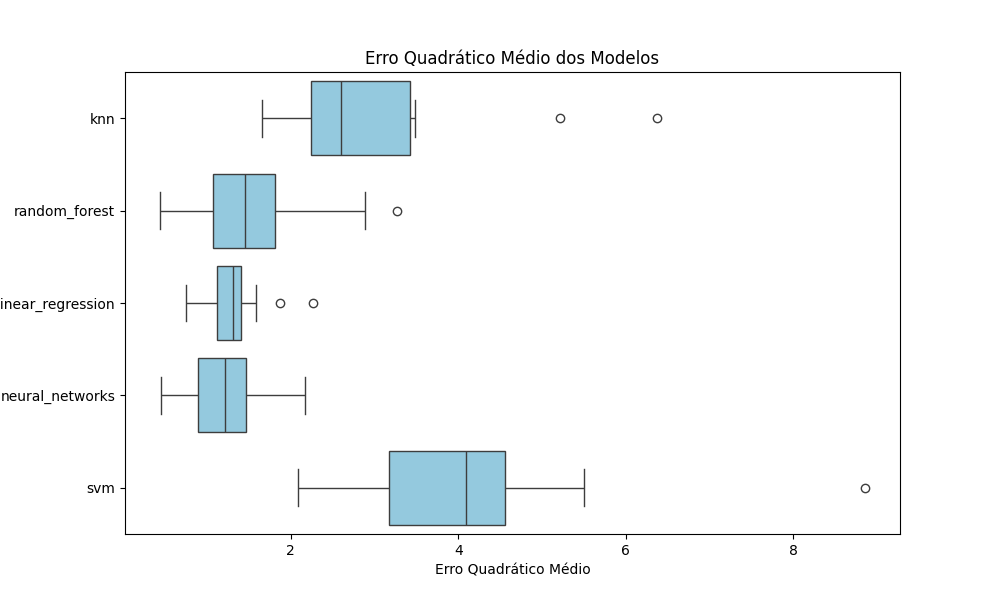
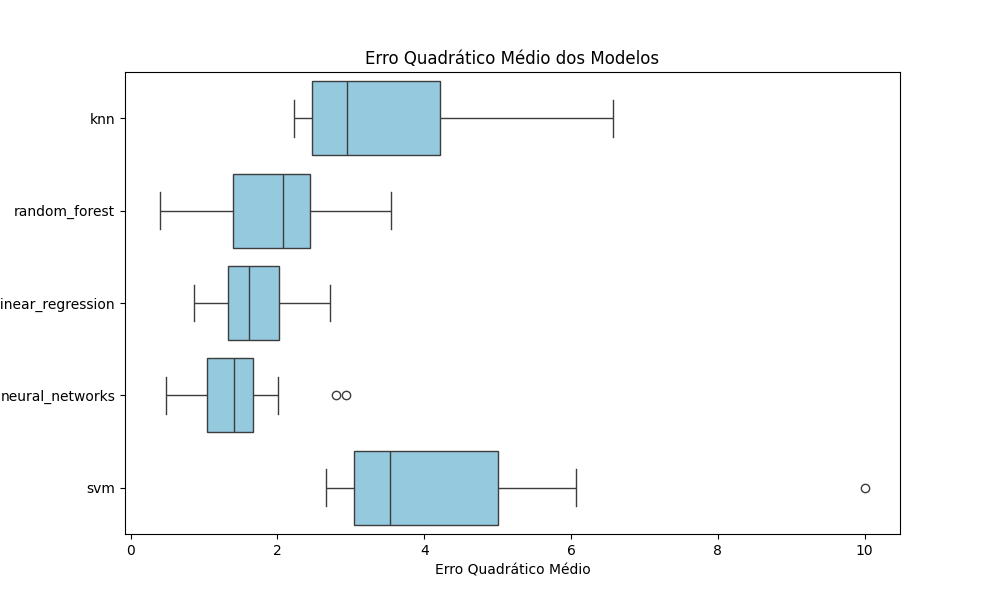
feat: execute hyperparameters optimization

diff --git a/src/model_evaluation.py b/src/model_evaluation.py
@@ -51,7 +51,7 @@ def evaluate_model(method, X_train, X_val, y_train, y_val, random_state):
         case "svm":
             model = SVR()
     # Pipeline applies the preprocessed dataset to the model for fitting
-    pipe = Pipeline([
+    pipe = Pipeline(steps=[
         ("preprocessor", preprocessor),
         ("regressor", model)
     ])
@@ -64,7 +64,7 @@ def evaluate_model(method, X_train, X_val, y_train, y_val, random_state):
 
     return mean_squared_error(y_val, model_prediction)
 
-def optimize_hyperparameters(method, X_train, X_val, y_train, y_val, kfolds, random_state):
+def optimize_hyperparameters(method, X_train, y_train, kfolds, random_state):
     # Preprocessing is sensitive to type
     # Separate analyzed features into numerical and categorical
     # As to apply preprocessing only to valid features
@@ -82,15 +82,17 @@ def optimize_hyperparameters(method, X_train, X_val, y_train, y_val, kfolds, ran
     match method:
         case "random_forest":
             hyperparameters = {
-                "n_estimators": np.arange(50, 500, 50),
-                "cpp_alpha": np.arange(0, 0.75, 0.05),
+                "regressor__n_estimators": np.arange(300, 500, 25),
+                "regressor__ccp_alpha": np.arange(0, 0.4, 0.025),
             }
             model = RandomForestRegressor(random_state=random_state)
         case "neural_networks":
             hyperparameters = {
-                "hidden_layer_sizes": [(100,), (50, 100), (50, 50), (100, 100), (50, 100, 50)],
+                "regressor__solver": ['lbfgs', 'adam'],
+                "regressor__hidden_layer_sizes": [(25,), (50,), (100,), (25, 50, 25), (50, 50, 25), (50, 100),
+                                                  (50, 50), (100, 100), (50, 100, 50), (100, 100, 100)],
             }
-            model = MLPRegressor(early_stopping=True, n_iter_no_change=5, max_iter=2500, random_state=random_state)
+            model = MLPRegressor(max_iter=2500, random_state=random_state)
     
     # Pipeline applies the preprocessed dataset to the model for fitting
     pipe = Pipeline([
